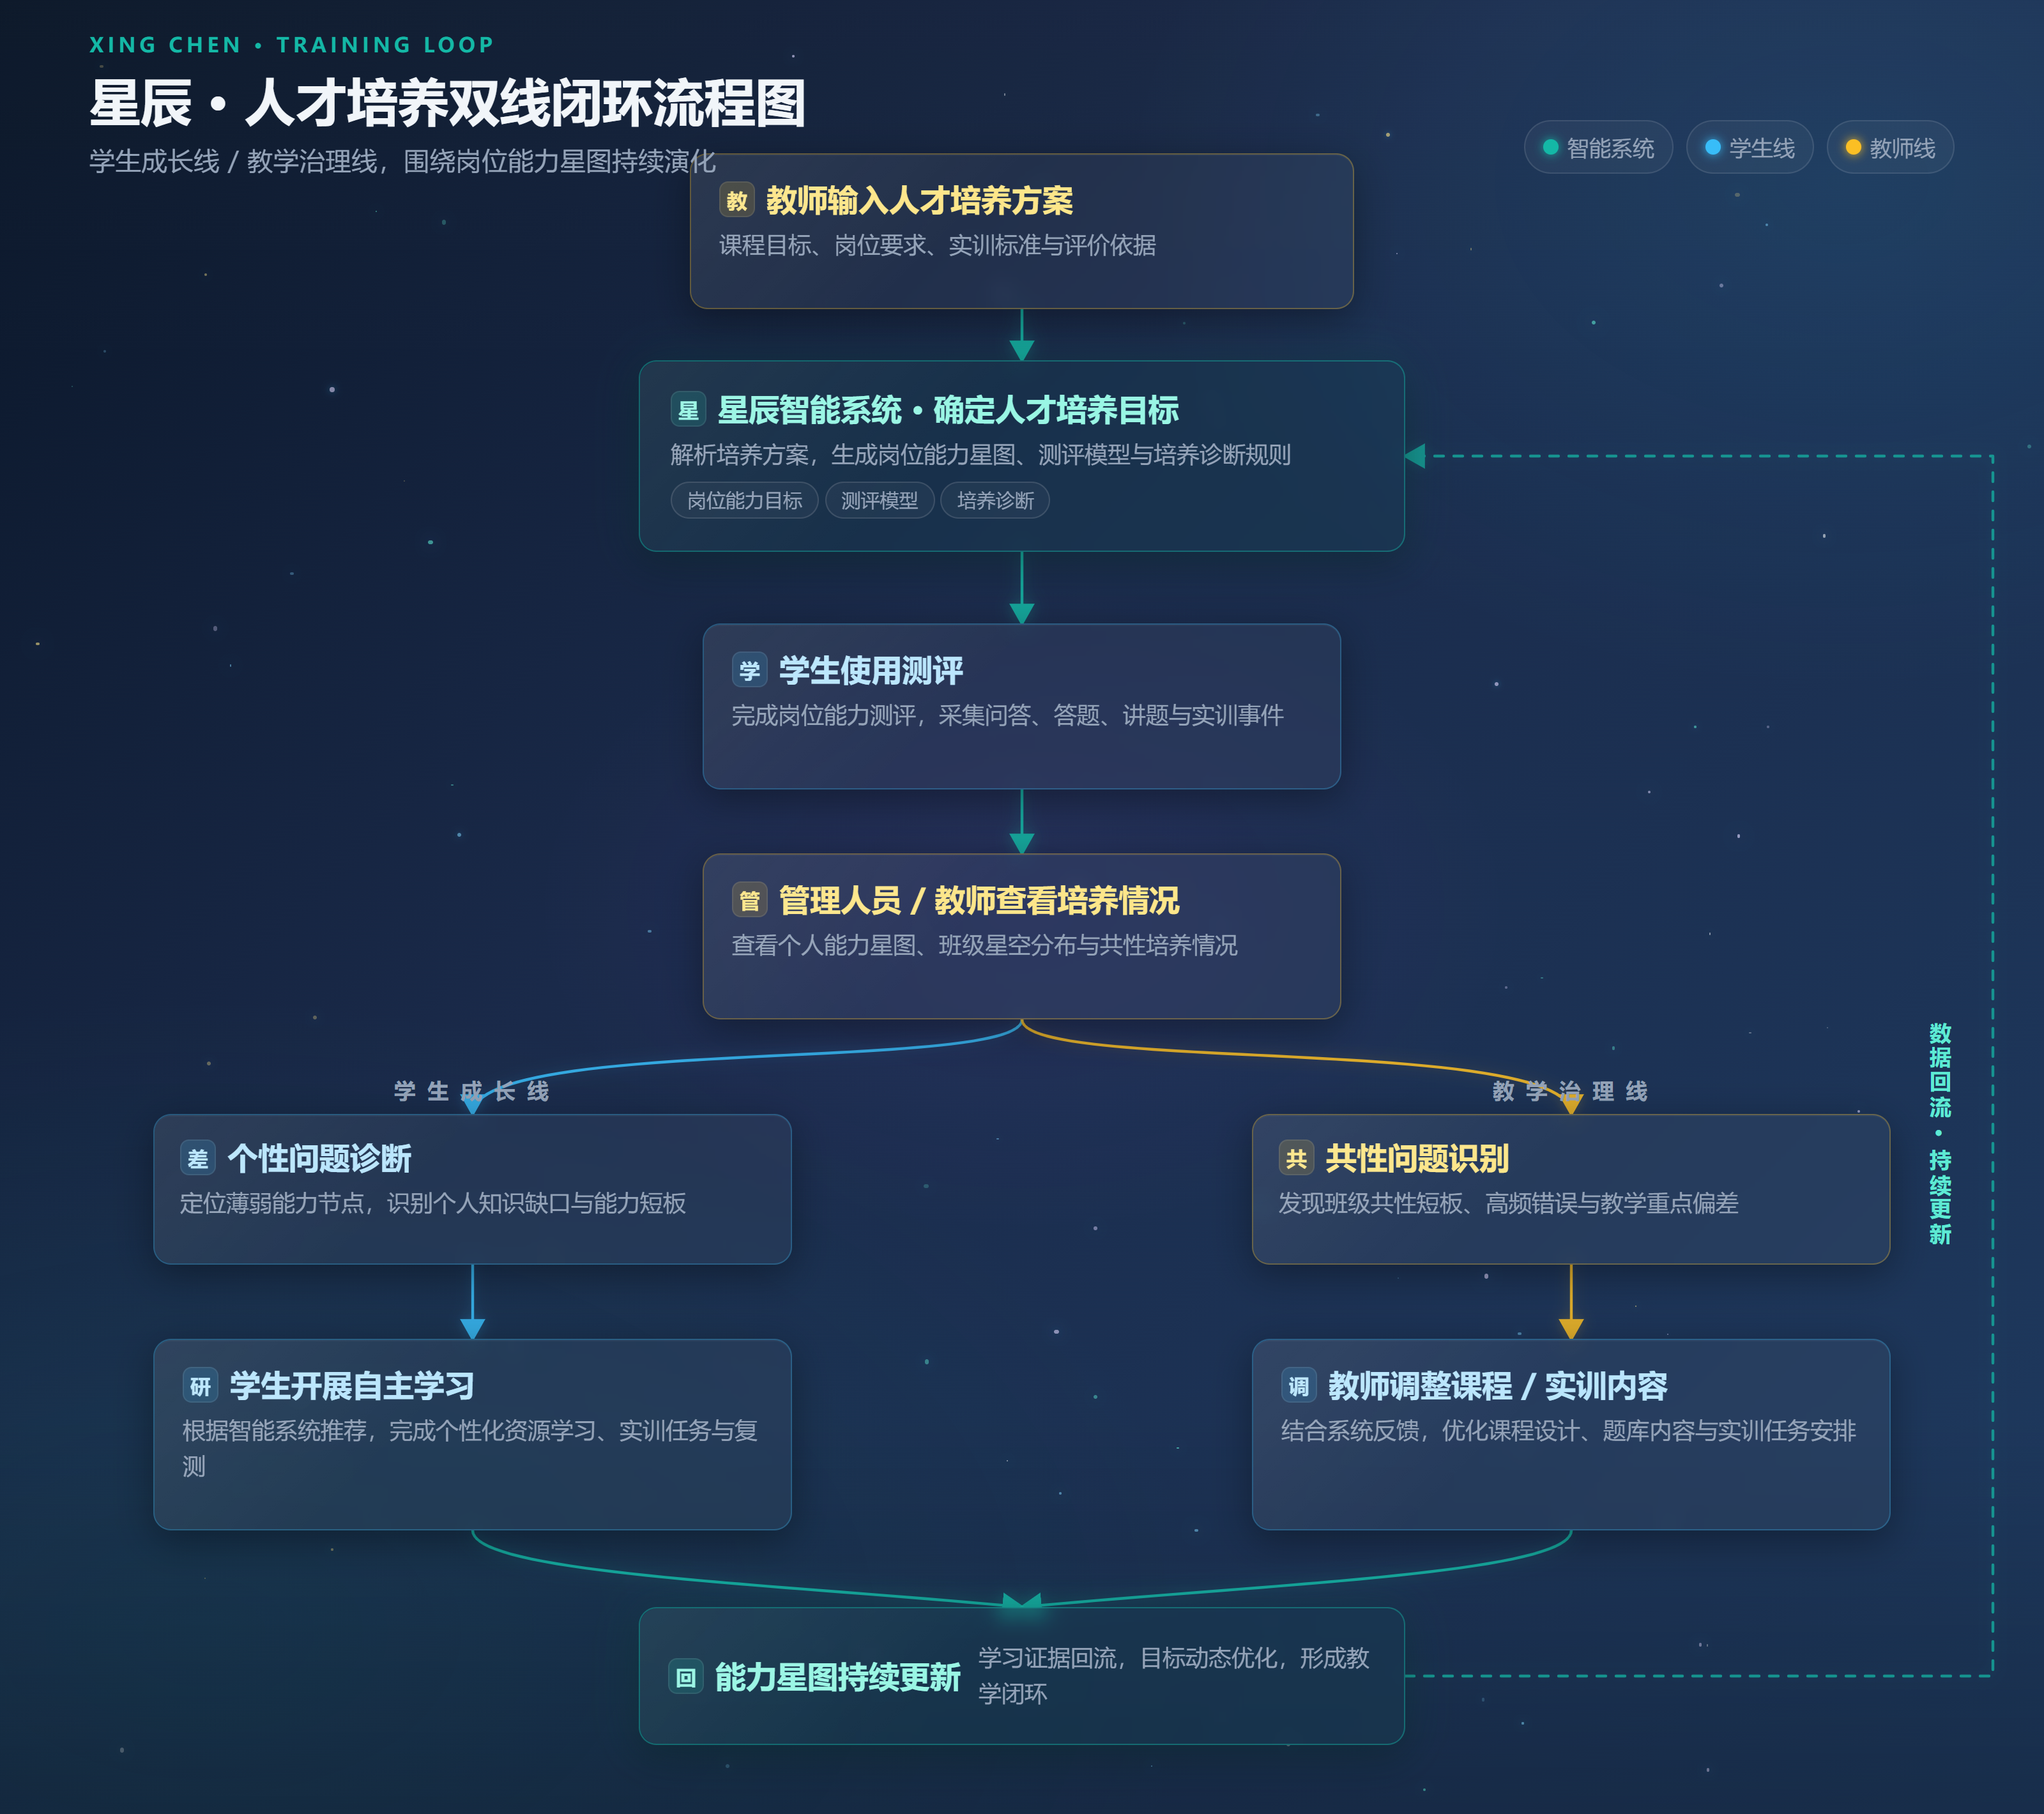
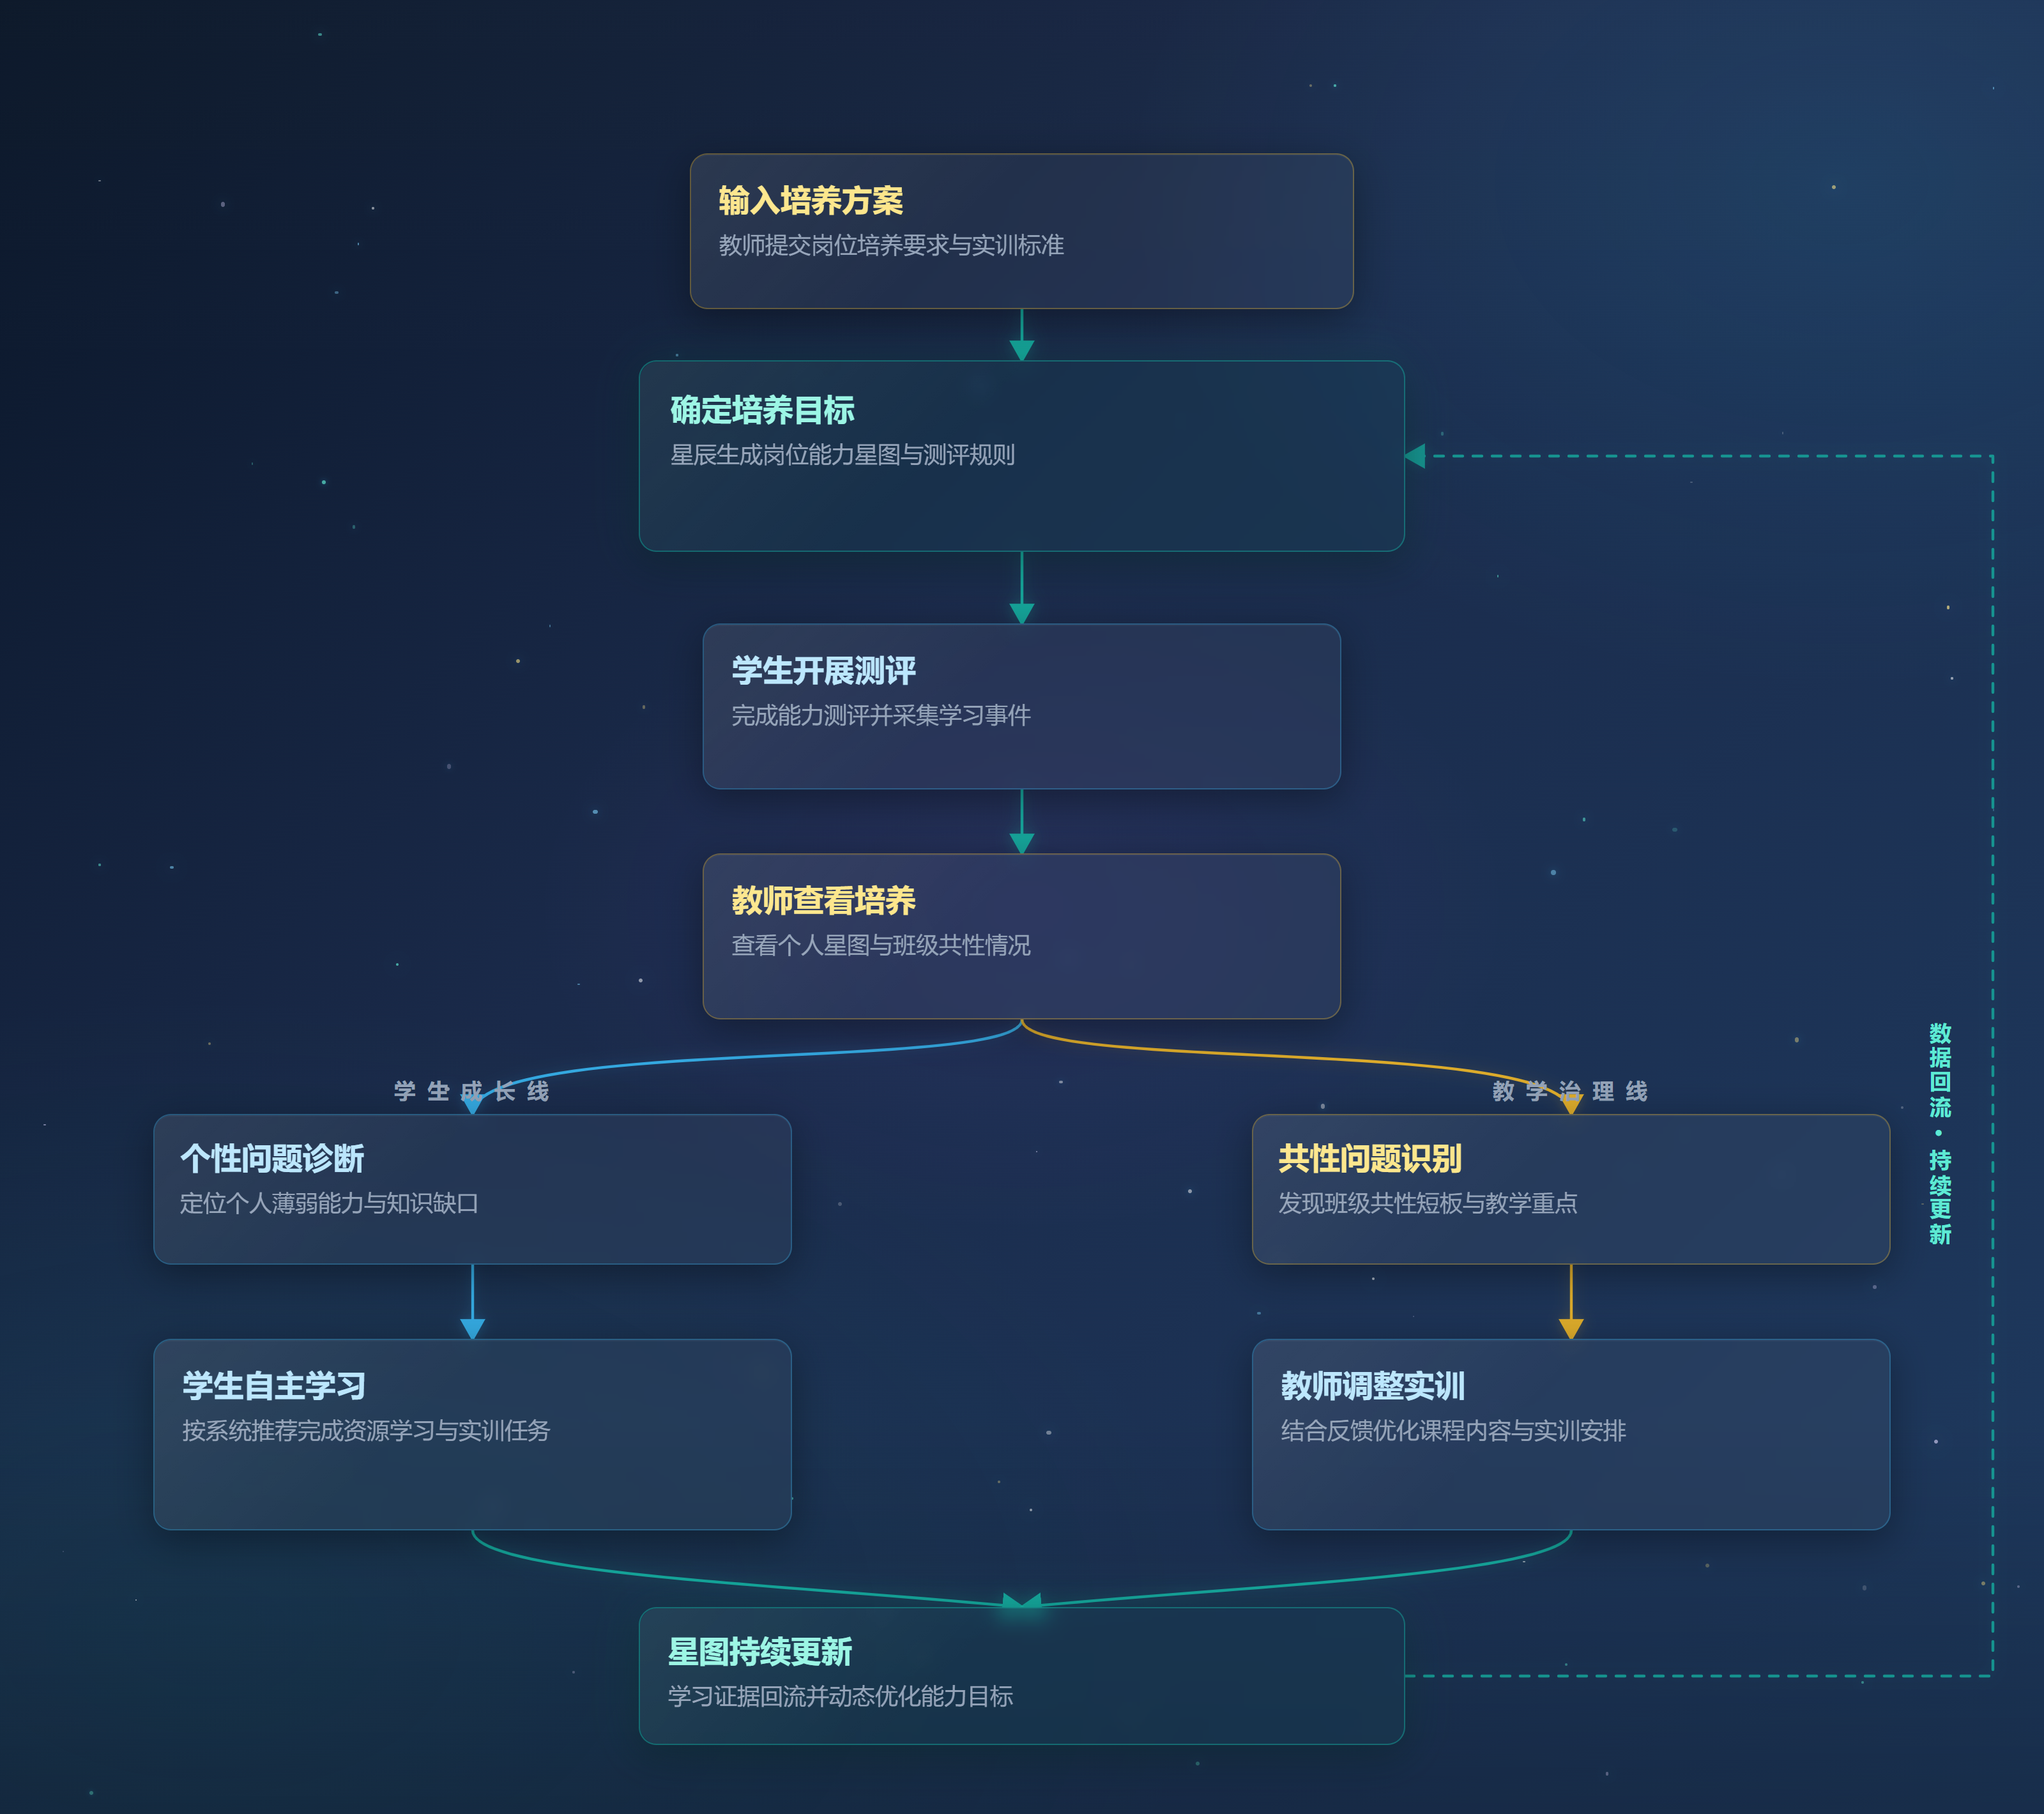
Simplify Xingchen flowchart node content

diff --git a/docs/星辰_人才培养流程图.html b/docs/星辰_人才培养流程图.html
@@ -198,29 +198,8 @@
       background: linear-gradient(135deg, rgba(255,255,255,0.06), transparent 42%);
     }
 
-    .node-head {
-      display: flex;
-      align-items: center;
-      gap: 9px;
-      margin-bottom: 7px;
-    }
-
-    .node-icon {
-      width: 28px;
-      height: 28px;
-      border-radius: 7px;
-      display: grid;
-      place-items: center;
-      font-size: 16px;
-      font-weight: 700;
-      color: #fff;
-      background: rgba(255,255,255,0.09);
-      box-shadow: inset 0 0 0 1px rgba(255,255,255,0.08);
-      flex: 0 0 auto;
-    }
-
     .node-title {
-      margin: 0;
+      margin: 0 0 7px;
       font-size: 24px;
       font-weight: 700;
       color: var(--text);
@@ -324,12 +303,8 @@
       width: 600px;
       height: 108px;
       padding: 18px 22px;
-      display: flex;
-      align-items: center;
+      display: block;
     }
-
-    .node.system.closure .node-head { margin: 0 14px 0 0; flex: 0 0 auto; }
-    .node.system.closure .node-sub { flex: 1 1 auto; }
 
     .lane-label {
       position: absolute;
@@ -389,19 +364,6 @@
   <div class="board">
     <div id="starfield"></div>
 
-    <div class="header">
-      <div class="title-block">
-        <div class="eyebrow">Xing Chen · Training Loop</div>
-        <h1>星辰 · 人才培养双线闭环流程图</h1>
-        <div class="subtitle">学生成长线 / 教学治理线，围绕岗位能力星图持续演化</div>
-      </div>
-      <div class="legend">
-        <span class="legend-item"><span class="legend-dot" style="color:#14b8a6;background:#14b8a6"></span>智能系统</span>
-        <span class="legend-item"><span class="legend-dot" style="color:#38bdf8;background:#38bdf8"></span>学生线</span>
-        <span class="legend-item"><span class="legend-dot" style="color:#fbbf24;background:#fbbf24"></span>教师线</span>
-      </div>
-    </div>
-
     <svg class="connectors" viewBox="0 0 1600 1420" aria-hidden="true">
       <defs>
         <marker id="arrow-system" markerWidth="9" markerHeight="9" refX="7" refY="4.5" orient="auto" markerUnits="strokeWidth">
@@ -449,78 +411,48 @@
     <div class="lane-label teacher">教 学 治 理 线</div>
 
     <section class="node input teacher">
-      <div class="node-head">
-        <span class="node-icon">教</span>
-        <h2 class="node-title">教师输入人才培养方案</h2>
-      </div>
-      <p class="node-sub">课程目标、岗位要求、实训标准与评价依据</p>
+      <h2 class="node-title">输入培养方案</h2>
+      <p class="node-sub">教师提交岗位培养要求与实训标准</p>
     </section>
 
     <section class="node system">
-      <div class="node-head">
-        <span class="node-icon">星</span>
-        <h2 class="node-title">星辰智能系统 · 确定人才培养目标</h2>
-      </div>
-      <p class="node-sub">解析培养方案，生成岗位能力星图、测评模型与培养诊断规则</p>
-      <span class="small-tag">岗位能力目标</span>
-      <span class="small-tag">测评模型</span>
-      <span class="small-tag">培养诊断</span>
+      <h2 class="node-title">确定培养目标</h2>
+      <p class="node-sub">星辰生成岗位能力星图与测评规则</p>
     </section>
 
     <section class="node student assessment">
-      <div class="node-head">
-        <span class="node-icon">学</span>
-        <h2 class="node-title">学生使用测评</h2>
-      </div>
-      <p class="node-sub">完成岗位能力测评，采集问答、答题、讲题与实训事件</p>
+      <h2 class="node-title">学生开展测评</h2>
+      <p class="node-sub">完成能力测评并采集学习事件</p>
     </section>
 
     <section class="node teacher assessment">
-      <div class="node-head">
-        <span class="node-icon">管</span>
-        <h2 class="node-title">管理人员 / 教师查看培养情况</h2>
-      </div>
-      <p class="node-sub">查看个人能力星图、班级星空分布与共性培养情况</p>
+      <h2 class="node-title">教师查看培养</h2>
+      <p class="node-sub">查看个人星图与班级共性情况</p>
     </section>
 
     <section class="node insight issue">
-      <div class="node-head">
-        <span class="node-icon">差</span>
-        <h2 class="node-title">个性问题诊断</h2>
-      </div>
-      <p class="node-sub">定位薄弱能力节点，识别个人知识缺口与能力短板</p>
+      <h2 class="node-title">个性问题诊断</h2>
+      <p class="node-sub">定位个人薄弱能力与知识缺口</p>
     </section>
 
     <section class="node teacher issue">
-      <div class="node-head">
-        <span class="node-icon">共</span>
-        <h2 class="node-title">共性问题识别</h2>
-      </div>
-      <p class="node-sub">发现班级共性短板、高频错误与教学重点偏差</p>
+      <h2 class="node-title">共性问题识别</h2>
+      <p class="node-sub">发现班级共性短板与教学重点</p>
     </section>
 
     <section class="node action">
-      <div class="node-head">
-        <span class="node-icon">研</span>
-        <h2 class="node-title">学生开展自主学习</h2>
-      </div>
-      <p class="node-sub">根据智能系统推荐，完成个性化资源学习、实训任务与复测</p>
+      <h2 class="node-title">学生自主学习</h2>
+      <p class="node-sub">按系统推荐完成资源学习与实训任务</p>
     </section>
 
     <section class="node teacher action">
-      <div class="node-head">
-        <span class="node-icon">调</span>
-        <h2 class="node-title">教师调整课程 / 实训内容</h2>
-      </div>
-      <p class="node-sub">结合系统反馈，优化课程设计、题库内容与实训任务安排</p>
+      <h2 class="node-title">教师调整实训</h2>
+      <p class="node-sub">结合反馈优化课程内容与实训安排</p>
     </section>
 
     <section class="node system closure">
-      <div class="node-head">
-        <span class="node-icon">回</span>
-        <h2 class="node-title">能力星图持续更新</h2>
-      </div>
-      <p class="node-sub">学习证据回流，目标动态优化，形成教学闭环</p>
+      <h2 class="node-title">星图持续更新</h2>
+      <p class="node-sub">学习证据回流并动态优化能力目标</p>
     </section>
   </div>
 
